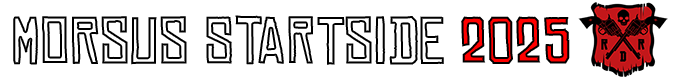
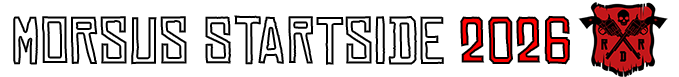
update

diff --git a/index.html b/index.html
@@ -2,7 +2,7 @@
 <html lang="en" dir="ltr">
   <head>
     <meta charset="utf-8">
-    <title>Morsus Startside 2025</title>
+    <title>Morsus Startside 2026</title>
     <link rel="stylesheet" href="styles.css">
     <link href="https://fonts.cdnfonts.com/css/chinese-rocks" rel="stylesheet">
   </head>